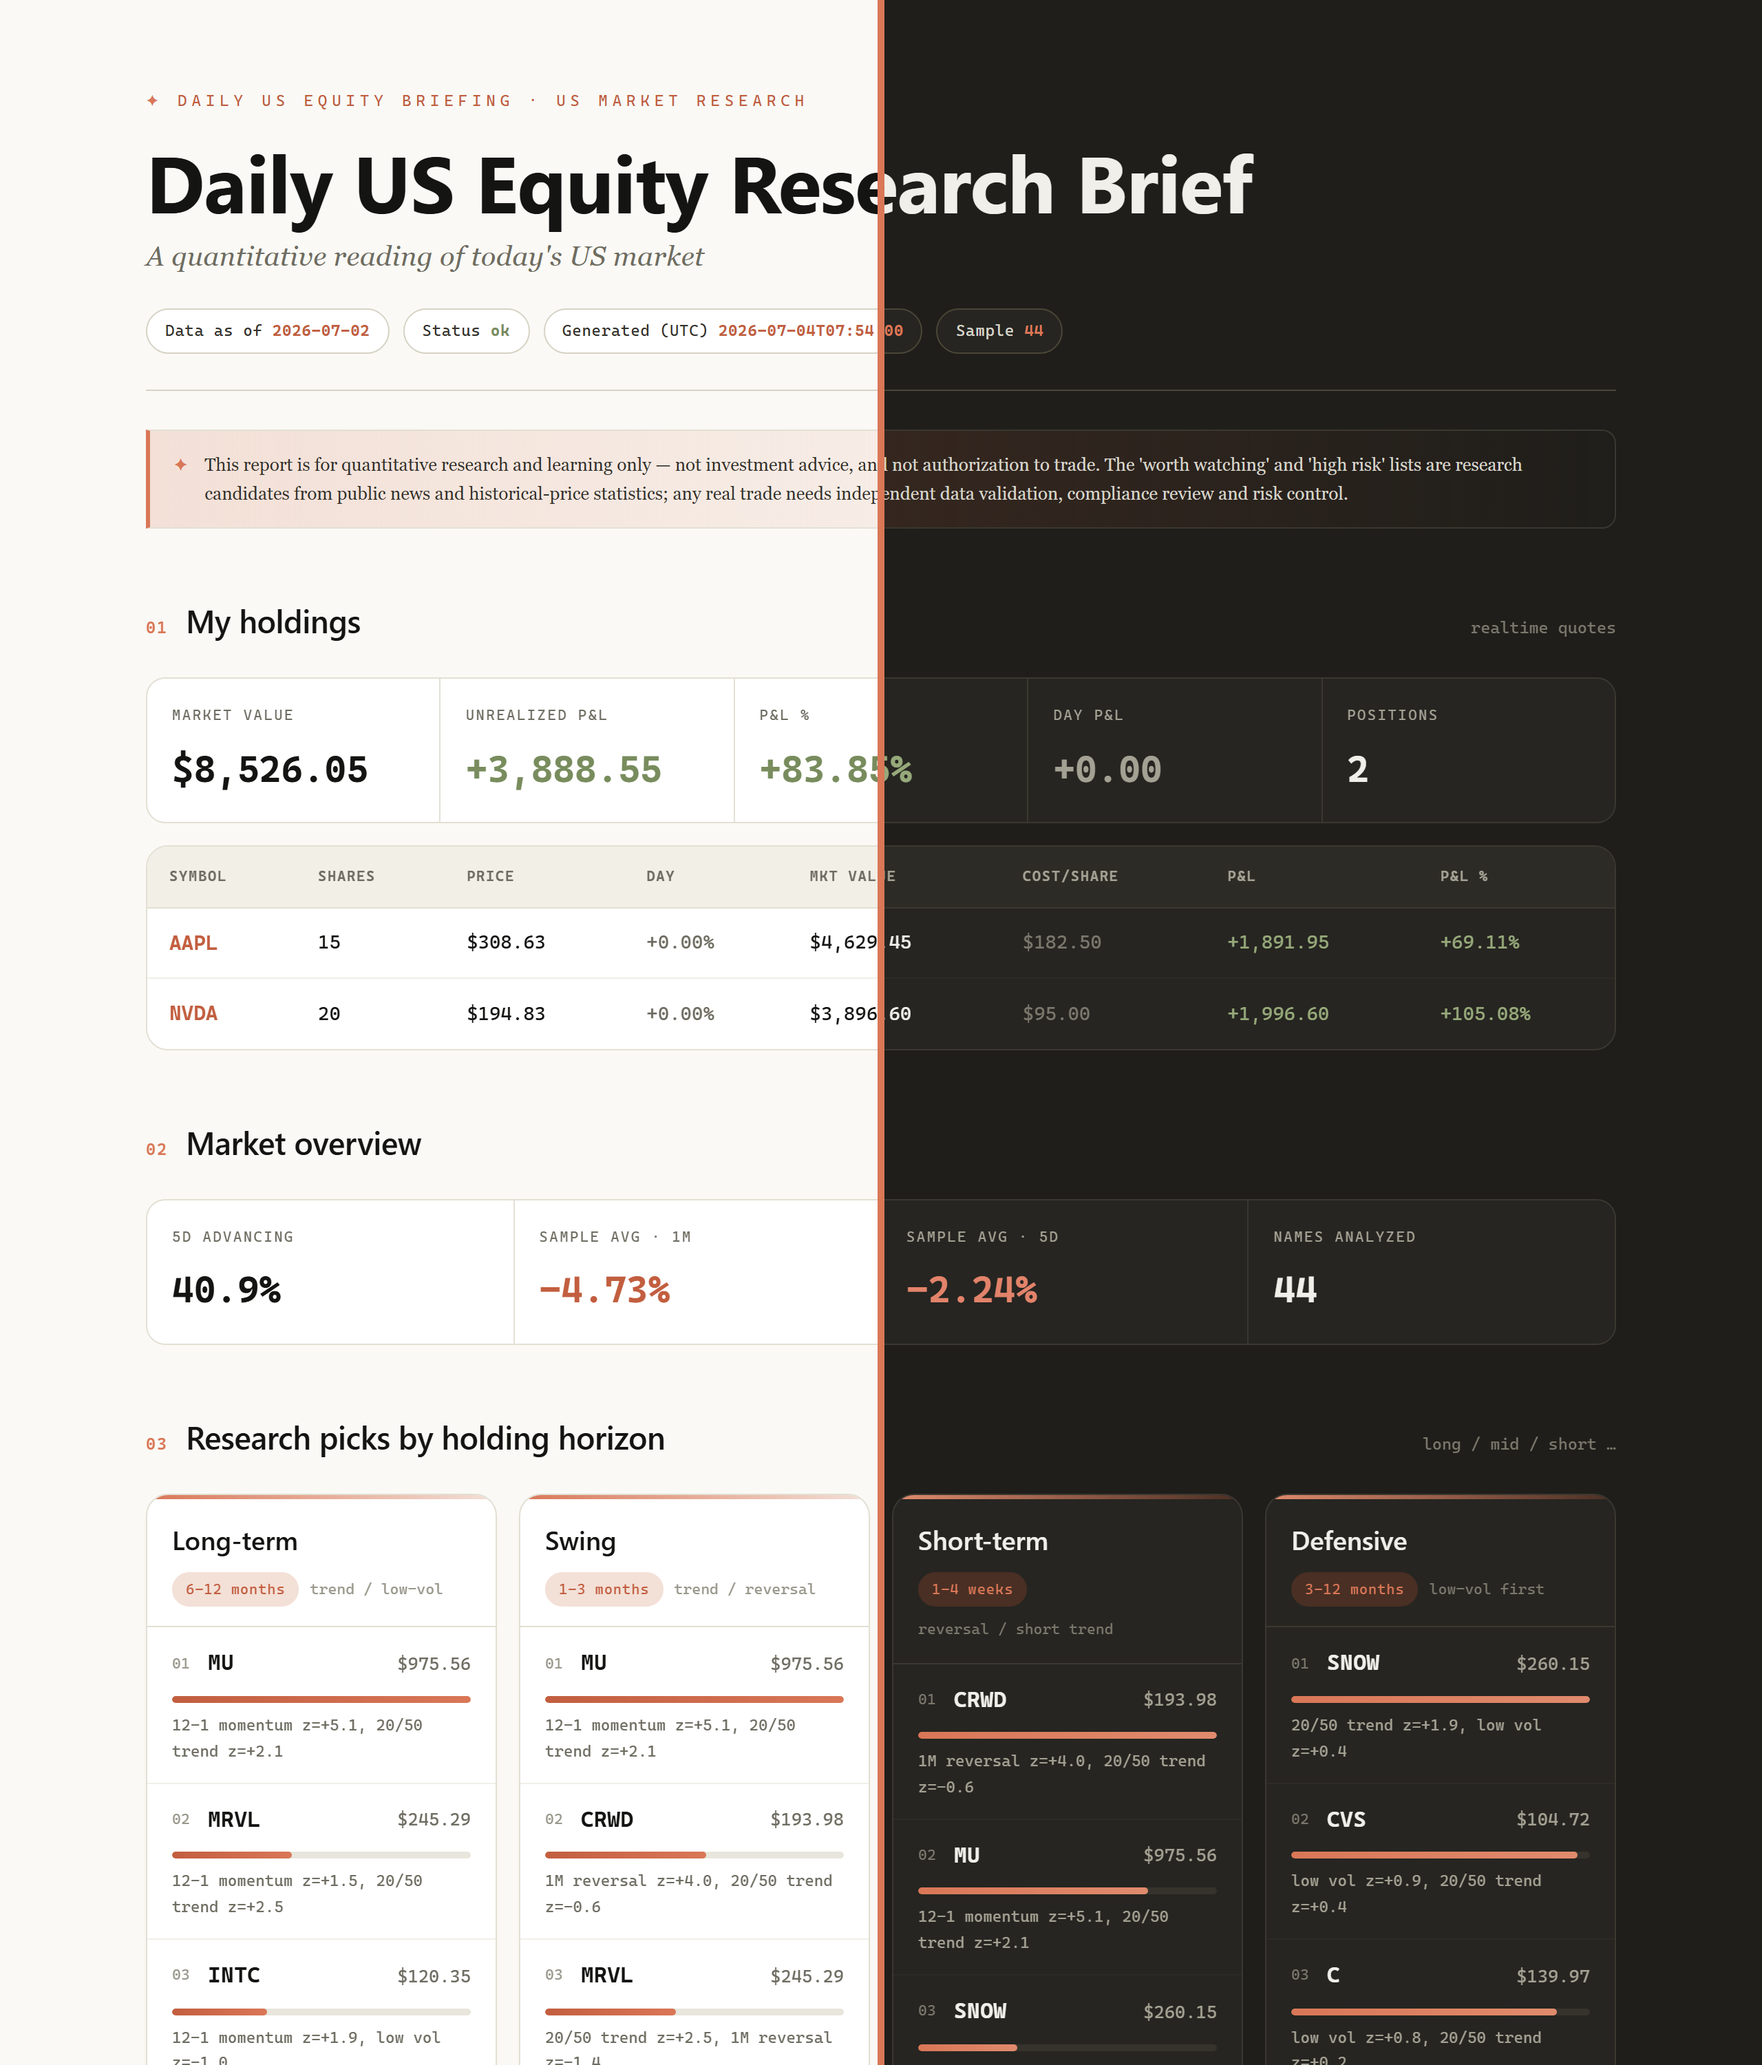
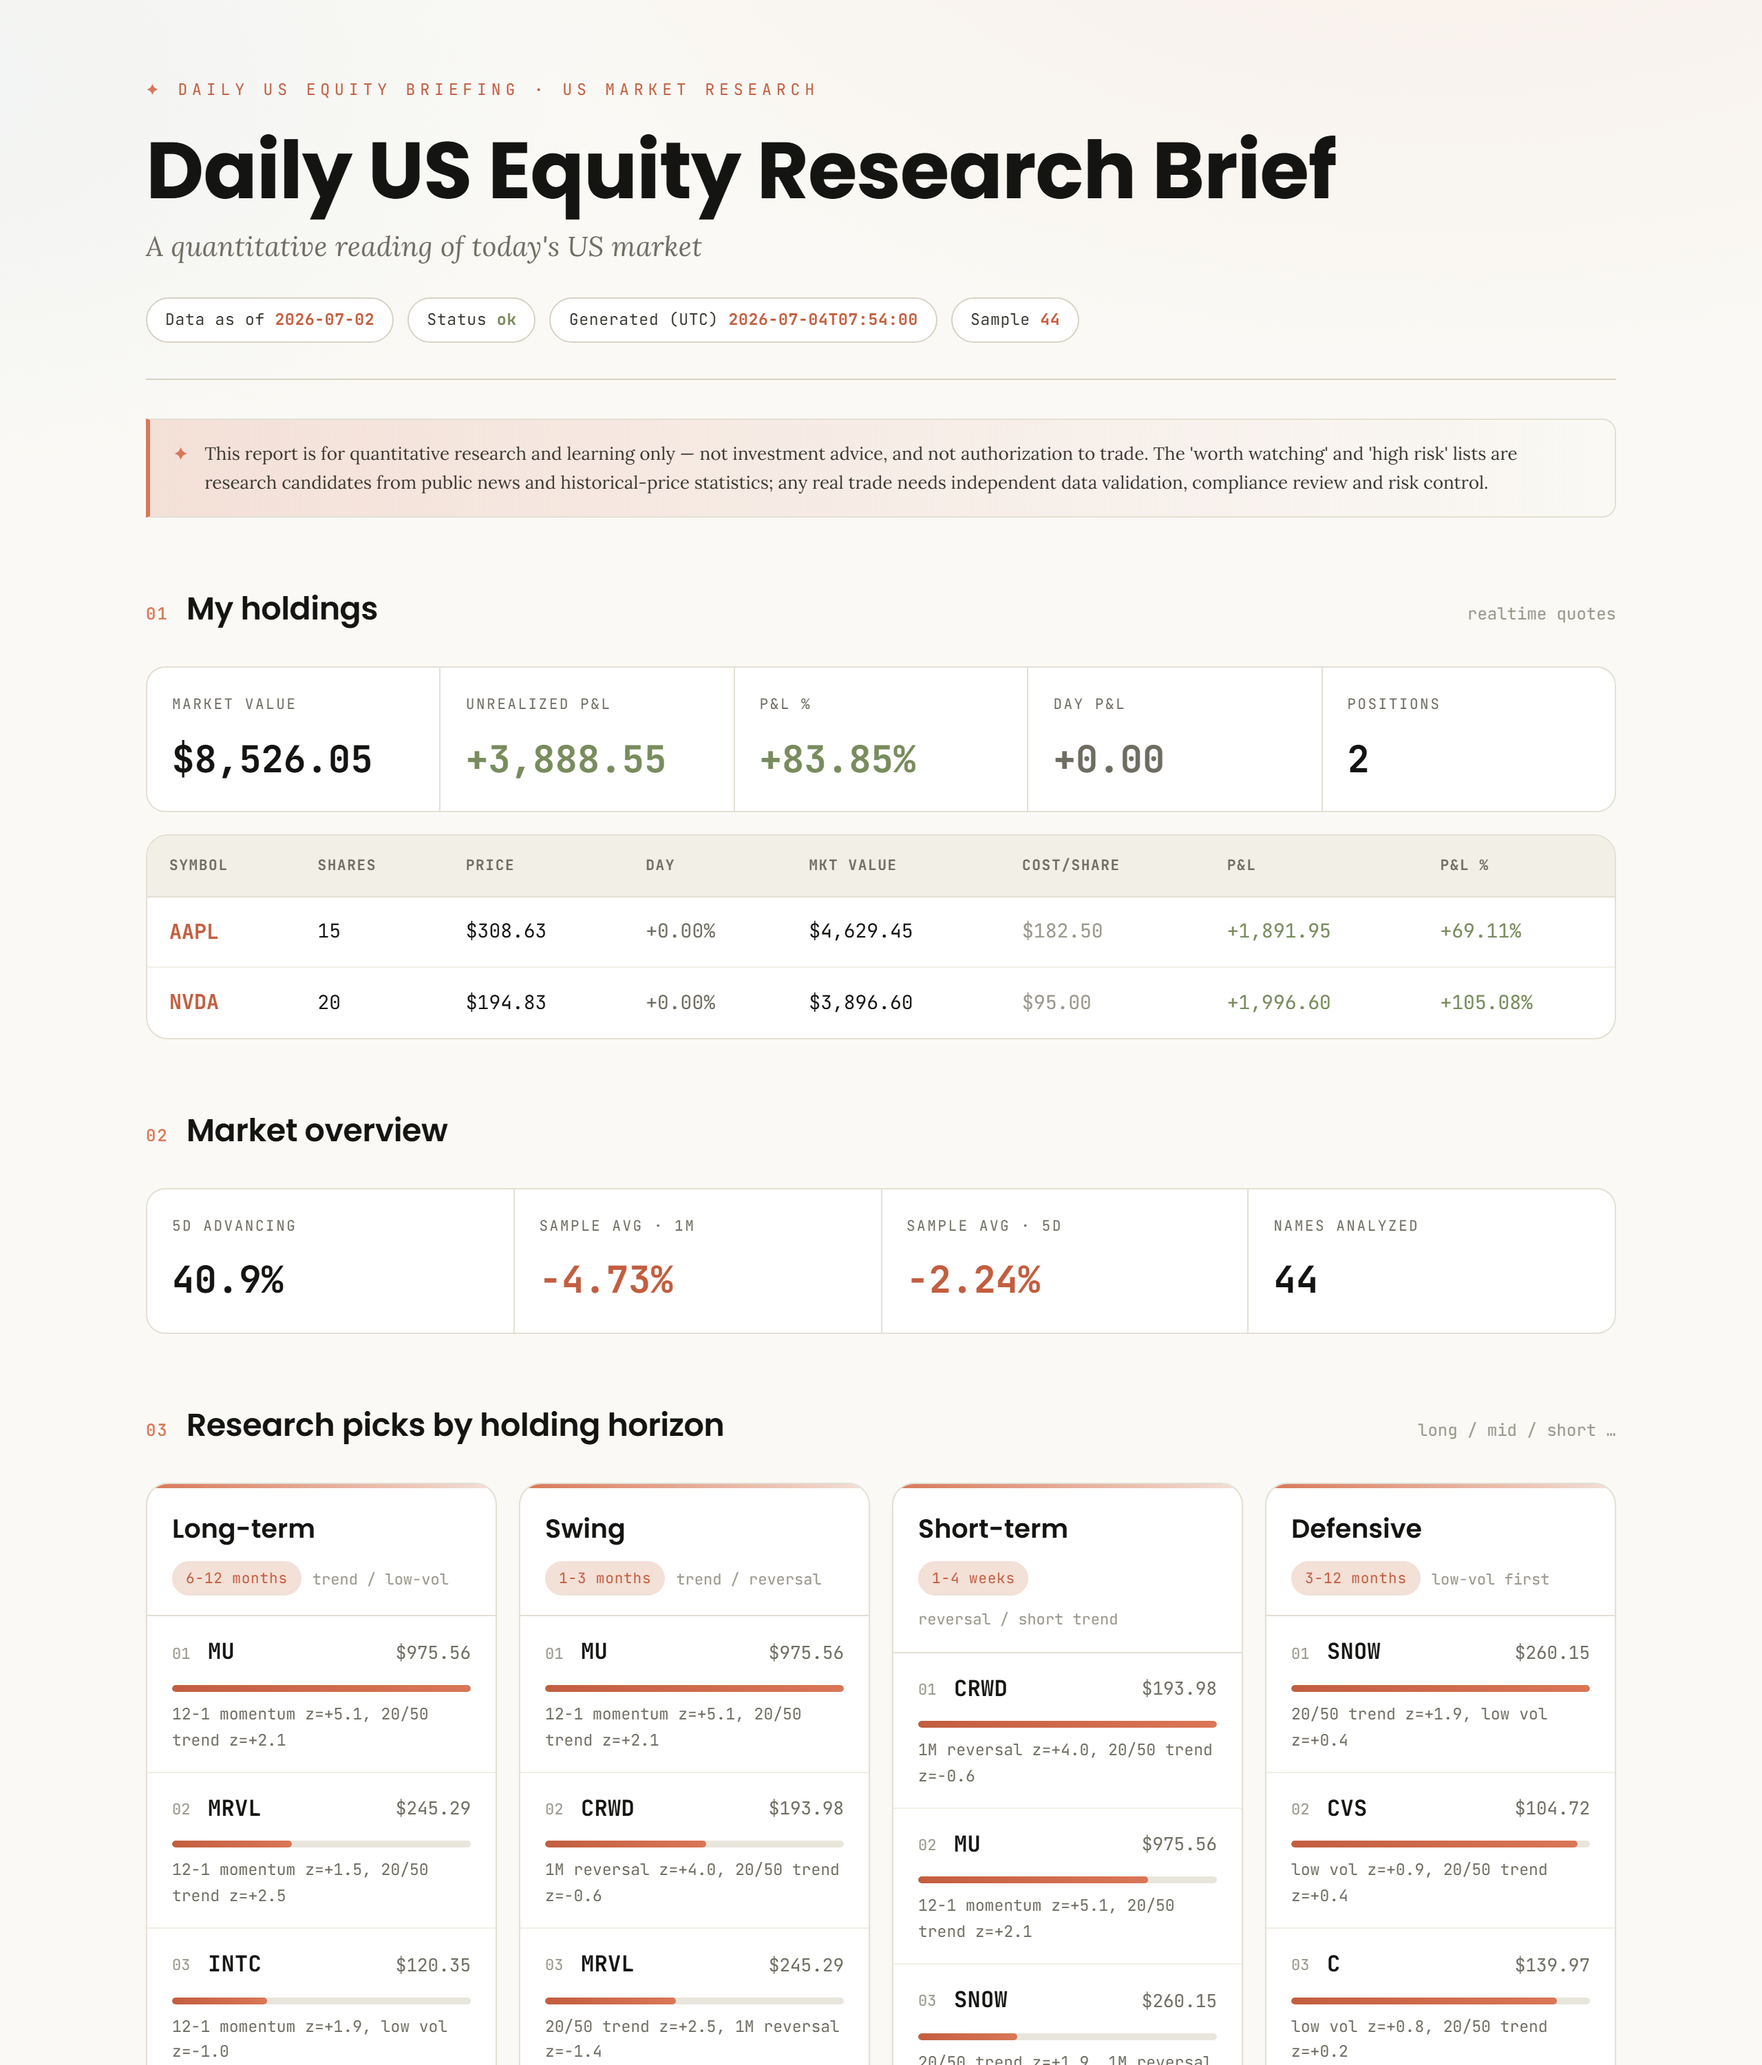
docs: 修复 analyze 示例图字体堆叠（SVG 转本地字体渲染 PNG），报告主图改纯浅色
Rich 导出的 SVG 依赖 CDN 字体 + full-width 变体，GitHub 渲染时回退字体
导致文字堆叠；改为本机 Cascadia Mono 渲染的 PNG。报告配图按反馈换回
浅色整页版。

diff --git a/README.md b/README.md
@@ -26,7 +26,7 @@ No entry point? `python -m quant_agent analyze AAPL` works the same.
 
 ## What you get
 
-<img src="assets/analyze-example.svg" alt="Real output of quant-ai analyze AAPL" width="820">
+<img src="assets/analyze-example.png" alt="Real output of quant-ai analyze AAPL" width="820">
 
 Real output from `quant-ai analyze AAPL` — **English by default**, `--lang zh` for Chinese. Ratings range from **Strong Buy** through **Neutral** to **Strong Sell**. Add `--output-dir` to export Markdown + JSON, or `--chart` for a PNG chart.
 
@@ -69,9 +69,7 @@ Install https://github.com/TingdeLiu/quant.ai as an MCP server:
 
 `quant-ai market-report` builds a daily US-equity research brief — your holdings P&L (when set), market overview, watch / high-risk lists, quant picks by holding horizon, and free news headlines — in an Anthropic-style design, written as HTML + a self-contained artifact + Markdown + JSON:
 
-<img src="assets/market-report-example.png" alt="Daily market report — holdings P&L first; one report, light & dark artifact themes" width="820">
-
-<sub>One report, both artifact themes — left: light, right: dark. Your holdings P&L opens the brief.</sub>
+<img src="assets/market-report-example.png" alt="Daily market report — your holdings P&L opens the brief" width="820">
 
 `quant-ai serve-dashboard` (or `write-dashboard`) renders backtest diagnostics — headline metrics, alerts, period breakdown, risk checks, positions and trades — with a built-in **EN / 中文** toggle:
 
